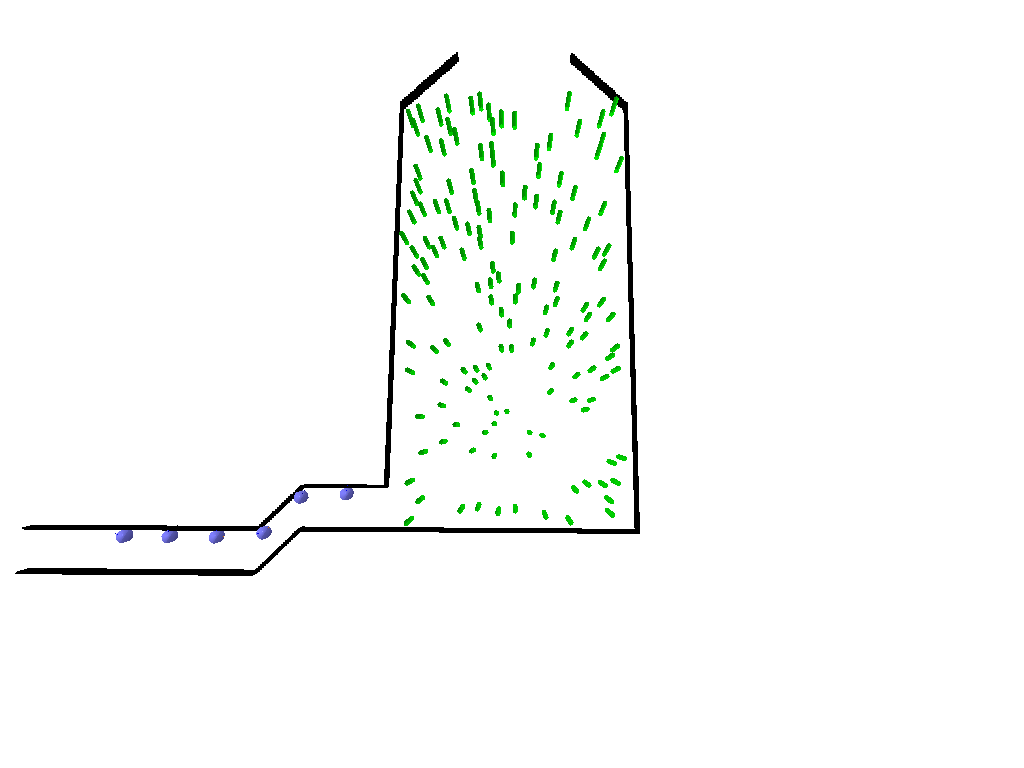
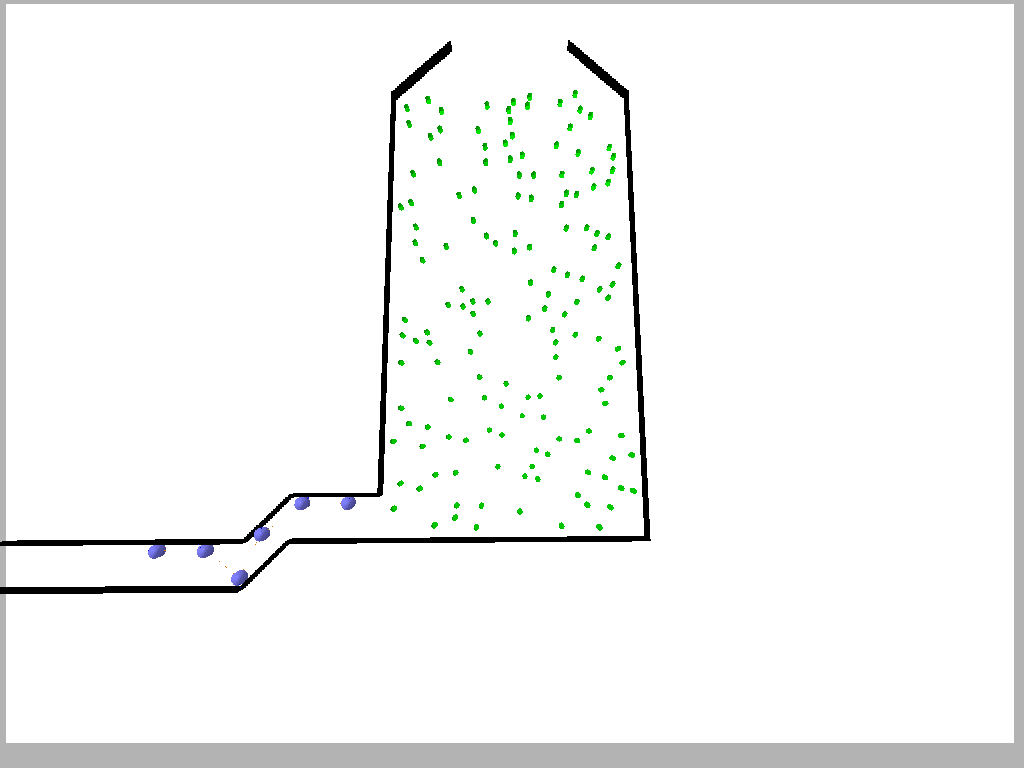
lab computer stuff

Changed region(s): [[0.0, 0.0, 1.0, 1.0], [0.4375, 0.4688, 0.5, 0.5625], [0.5, 0.5625, 0.5312, 0.5938]]

diff --git a/simulations.py b/simulations.py
@@ -397,7 +397,8 @@ class Simulation:
 
         starter_length = n + 5
 
-        gradient = [(np.sqrt(2)*(length_of_tank/2))*((4/3)*((length_of_tank)/2)), (np.sqrt(2)*(length_of_tank))*((4/3)*(top_position-bottom_position))]
+        # gradient = [(np.sqrt(2)*(length_of_tank/2))*((4/3)*((length_of_tank)/2)), (np.sqrt(2)*(length_of_tank))*((4/3)*(top_position-bottom_position))]
+        gradient = [6, 30]
 
         my_world = World(120, 120, self.time_step, self.gui_on)
 
@@ -413,14 +414,23 @@ class Simulation:
         
         initial_robot_positions = sims_utils.basic_starting_positions(self.unstretched_tether_length, n, angles, pos, "+x")
         
-        goal_angles = [None, 200, 200, 200, 200, None]
+        goal_angles = [None, 160, 160, 160, 160, None]
 
         # populates the list of robot objects with robot objects
         for i in range(n):
-            my_world.create_agent(initial_robot_positions[i], 0, radius = self.agent_radius, goal_delta = goal_angles[i], 
-                                  mass=self.agent_mass, height=self.agent_height, color=(0.5, 0.5, 1, 1), mu_static=self.agent_static_mu,
-                                  mu_dynamic=self.agent_dynamic_mu, max_velocity=self.agent_max_speed, drive_power=self.agent_drive_power)
+             my_world.create_agent(initial_robot_positions[i], 0, radius = self.agent_radius, goal_delta = goal_angles[i], 
+                                    mass=self.agent_mass, height=self.agent_height, color=(0.5, 0.5, 1, 1), mu_static=self.agent_static_mu,
+                                    mu_dynamic=self.agent_dynamic_mu, max_velocity=self.agent_max_speed, drive_power=self.agent_drive_power)
 
+            # if (i == 0) or (i == (n-1)):
+                # my_world.create_agent(initial_robot_positions[i], 0, radius = self.agent_radius, goal_delta = goal_angles[i], 
+                                    # mass=self.agent_mass, height=self.agent_height, color=(0.5, 0.5, 1, 1), mu_static=self.agent_static_mu,
+                                    # mu_dynamic=self.agent_dynamic_mu, max_velocity=self.agent_max_speed, drive_power=self.agent_drive_power)
+            # else:
+                # my_world.create_agent(initial_robot_positions[i], 0, radius = self.agent_radius, goal_delta = goal_angles[i], 
+                                    # mass=self.agent_mass, height=self.agent_height, color=(0.5, 0.5, 1, 1), mu_static=self.agent_static_mu,
+                                    # mu_dynamic=self.agent_dynamic_mu, max_velocity=self.agent_max_speed, drive_power=self.agent_drive_power, dont_care_about_gradient=True)
+                                    
         # populates the list of tether objects with tether objects
         for i in range(n-1):
             my_world.create_and_anchor_tether(my_world.agent_list[i], my_world.agent_list[i+1], self.unstretched_tether_length, self.tether_youngs_modulus, self.tether_diameter, num_segments = 10)
@@ -459,7 +469,7 @@ class Simulation:
             my_world.create_obstacle("cube", [size_of_block*i + (left_position-tunnel_length-ramp_length + 1), bottom_position - tunnel_width - ramp_length], length=1, width=1, color=(0, 0, 0, 1), fixed=True, height=0.5)
             my_world.create_obstacle("cube", [size_of_block*i + (left_position-tunnel_length-ramp_length + 1), bottom_position  - ramp_length], length=1, width=1, color=(0, 0, 0, 1), fixed=True, height=0.5)
 
-        sims_utils.generate_obstacles(my_world, [left_position, bottom_position - tunnel_width], [right_position, top_position], 150, "cylinder", 0.25, 0.25, 1, False)
+        sims_utils.generate_obstacles(my_world, [left_position, bottom_position - tunnel_width], [right_position, top_position], 150, "cylinder", 0.25, 0.25, self.agent_height, False)
         
         
         runs = 0
@@ -515,8 +525,8 @@ class Simulation:
                 if agent_to_update_next >= len(shuffled_list):
                     agent_to_update_next = 0
 
-            if runs % 1000 == 0:
-                sims_utils.screenshot_gui(ss_filename=f"data/time_step_{runs}_storm_drain_screenshot.png")
+            # if runs % 1000 == 0:
+            #     sims_utils.screenshot_gui(ss_filename=f"data/time_step_{runs}_storm_drain_screenshot.png")
 
             if self.sim_failed:
                 break
@@ -541,18 +551,18 @@ class Simulation:
 
         Agent.set_weights([a_weight, s_weight, g_weight, r_weight])
 
-        start = [10.66435,2.61832,1.7178015867129035,11.69837,4.41912,0.008455429980073625,13.7678,5.06304,0.0026835581232114874,13.78616,7.08026,0.0011685954320433077,15.71217,6.6164,0.0009300594955369165,17.00229,8.24761,0.1086975315872433,17.82913,6.40982,0.009906272248240856,19.75934,6.63694,0.7376781911783291,22.06267,6.86474,0.21756226673416776]
+        # start = [10.66435,2.61832,1.7178015867129035,11.69837,4.41912,0.008455429980073625,13.7678,5.06304,0.0026835581232114874,13.78616,7.08026,0.0011685954320433077,15.71217,6.6164,0.0009300594955369165,17.00229,8.24761,0.1086975315872433,17.82913,6.40982,0.009906272248240856,19.75934,6.63694,0.7376781911783291,22.06267,6.86474,0.21756226673416776]
         
-        sets = int(len(start)/3)
+        # sets = int(len(start)/3)
 
-        pos = []
+        # pos = []
 
-        for i in range(sets):
-            pos.append([start[i*3], start[(i*3)+1], 0])
+        # for i in range(sets):
+        #     pos.append([start[i*3], start[(i*3)+1], 0])
         
-        # initial_agent_positions = sims_utils.angle_and_position_offset(n, angle_off_y, y_offset, self.unstretched_tether_length)
+        initial_agent_positions = sims_utils.angle_and_position_offset(n, angle_off_y, y_offset, self.unstretched_tether_length)
 
-        initial_agent_positions = pos
+        # initial_agent_positions = pos
 
 
         goals = []
@@ -595,67 +605,67 @@ class Simulation:
         # main simulation loop
         while (runs <= stop) and (my_world.id.isConnected()):
 
-            # self.debounce_count = 0
+            self.debounce_count = 0
 
-            # if runs%30:
-            #     my_world.id.getCameraImage(320,200)
+            if runs%30:
+                my_world.id.getCameraImage(320,200)
 
-            # for agent in shuffled_list:
-            #     if runs > Simulation.run_debounce and agent.is_tether_slack():
-            #         self.debounce_count += 1
+            for agent in shuffled_list:
+                if runs > Simulation.run_debounce and agent.is_tether_slack():
+                    self.debounce_count += 1
 
-            #     if runs%Simulation.run_debounce == 0:
+                if runs%Simulation.run_debounce == 0:
 
-            #         if self.old_debounce_count >= Simulation.debounce_threshold and self.debounce_count >= Simulation.debounce_threshold:
-            #             self.sim_failed = True
-            #             break
+                    if self.old_debounce_count >= Simulation.debounce_threshold and self.debounce_count >= Simulation.debounce_threshold:
+                        self.sim_failed = True
+                        break
 
-            #         self.old_debounce_count = self.debounce_count
+                    self.old_debounce_count = self.debounce_count
 
-            #     agent.sense_gradient(my_world.gradient_source)
-            #     agent.sense_close_range(my_world.obj_list, sensing_mode=2)
+                agent.sense_gradient(my_world.gradient_source)
+                agent.sense_close_range(my_world.obj_list, sensing_mode=2)
 
-            # if runs % self.sensing_period == 0:
-            #     for i in range(len(shuffled_list)):
-            #         if i == agent_to_update_next:
-            #            shuffled_list[i].set_next_step()
+            if runs % self.sensing_period == 0:
+                for i in range(len(shuffled_list)):
+                    if i == agent_to_update_next:
+                       shuffled_list[i].set_next_step()
                 
-            #     agent_to_update_next = agent_to_update_next + 1
+                agent_to_update_next = agent_to_update_next + 1
 
-            #     if agent_to_update_next >= len(shuffled_list):
-            #         agent_to_update_next = 0
+                if agent_to_update_next >= len(shuffled_list):
+                    agent_to_update_next = 0
 
-            # stop_while_loop = False
+            stop_while_loop = False
 
-            # if runs % self.logging_period == 0:
-            #     min_x = my_world.agent_list[0].get_pose()[0][0]
-            #     data = [runs]
-            #     for agent in my_world.agent_list:
-            #         data.append(round(agent.get_pose()[0][0], 5))
-            #         data.append(round(agent.get_pose()[0][1], 5))
-            #         data.append(agent.get_velocity())
+            if runs % self.logging_period == 0:
+                min_x = my_world.agent_list[0].get_pose()[0][0]
+                data = [runs]
+                for agent in my_world.agent_list:
+                    data.append(round(agent.get_pose()[0][0], 5))
+                    data.append(round(agent.get_pose()[0][1], 5))
+                    data.append(agent.get_velocity())
 
-            #         if agent.get_pose()[0][0] < min_x:
-            #             min_x = agent.get_pose()[0][0]
+                    if agent.get_pose()[0][0] < min_x:
+                        min_x = agent.get_pose()[0][0]
                     
 
-            #     # data.append(True)
+                # data.append(True)
             
-            #     sims_utils.log_to_csv(log_file, data, header=log_header)
+                # sims_utils.log_to_csv(log_file, data, header=log_header)
 
-            #     if min_x >= obst_pos[0]+obst_radius:
-            #         stop_while_loop = True
+                if min_x >= obst_pos[0]+obst_radius:
+                    stop_while_loop = True
 
-            # if self.sim_failed:
-            #     break
+            if self.sim_failed:
+                break
 
-            # if stop_while_loop:
-            #     break
+            if stop_while_loop:
+                break
 
             # if runs % 1000 == 0:
             #     sims_utils.screenshot_gui(ss_filename=f"data/recordings_valid/time_step_{runs}_obstacle_screenshot.png")
 
-            # runs = runs + 1
+            runs = runs + 1
             
             my_world.id.stepSimulation()
 

diff --git a/main.py b/main.py
@@ -300,10 +300,10 @@ def main():
                 SENSING_PERIOD, LOGGING_PERIOD)
     
     sim_args1 = (TIME_STEP, MASS, RADIUS, HEIGHT, MAX_SPEED, DRIVE_POWER, MU_STATIC, MU_DYNAMIC, 
-                UNSTRETCHED_TETHER_LENGTH, YOUNGS_MODULUS, DIAMETER, 20, 500, 8, 5, 
+                UNSTRETCHED_TETHER_LENGTH, YOUNGS_MODULUS, DIAMETER, 25, 500, 8, 5, 
                 SENSING_PERIOD, LOGGING_PERIOD)
 
-    run_storm_drain((sim_args1, True))
+    # run_storm_drain((sim_args1, True))
     # run_building_plan((sim_args1, True))
 
     # run_one_agent_follows_gradient((sim_args, True))
@@ -330,11 +330,11 @@ def main():
     # for i in not_sized_offsets:
     #     offsets.append(i*UNSTRETCHED_TETHER_LENGTH)
 
-    # offsets = [2.5*UNSTRETCHED_TETHER_LENGTH]
+    offsets = [3*UNSTRETCHED_TETHER_LENGTH]
 
     # # offsets = [0, 10*UNSTRETCHED_TETHER_LENGTH]
     
-    # run_obstacle_simulations((sim_args, True), 9, 10000, offsets, [0], 5, [6,0], 4*UNSTRETCHED_TETHER_LENGTH)
+    run_obstacle_simulations((sim_args, True), 9, 10000, offsets, [0], 5, [6,0], 4*UNSTRETCHED_TETHER_LENGTH)
     # sims_utils.make_3D_plot(["data/trial1_degree0_offset0.0.csv"], 9)
 
     trials = 7
